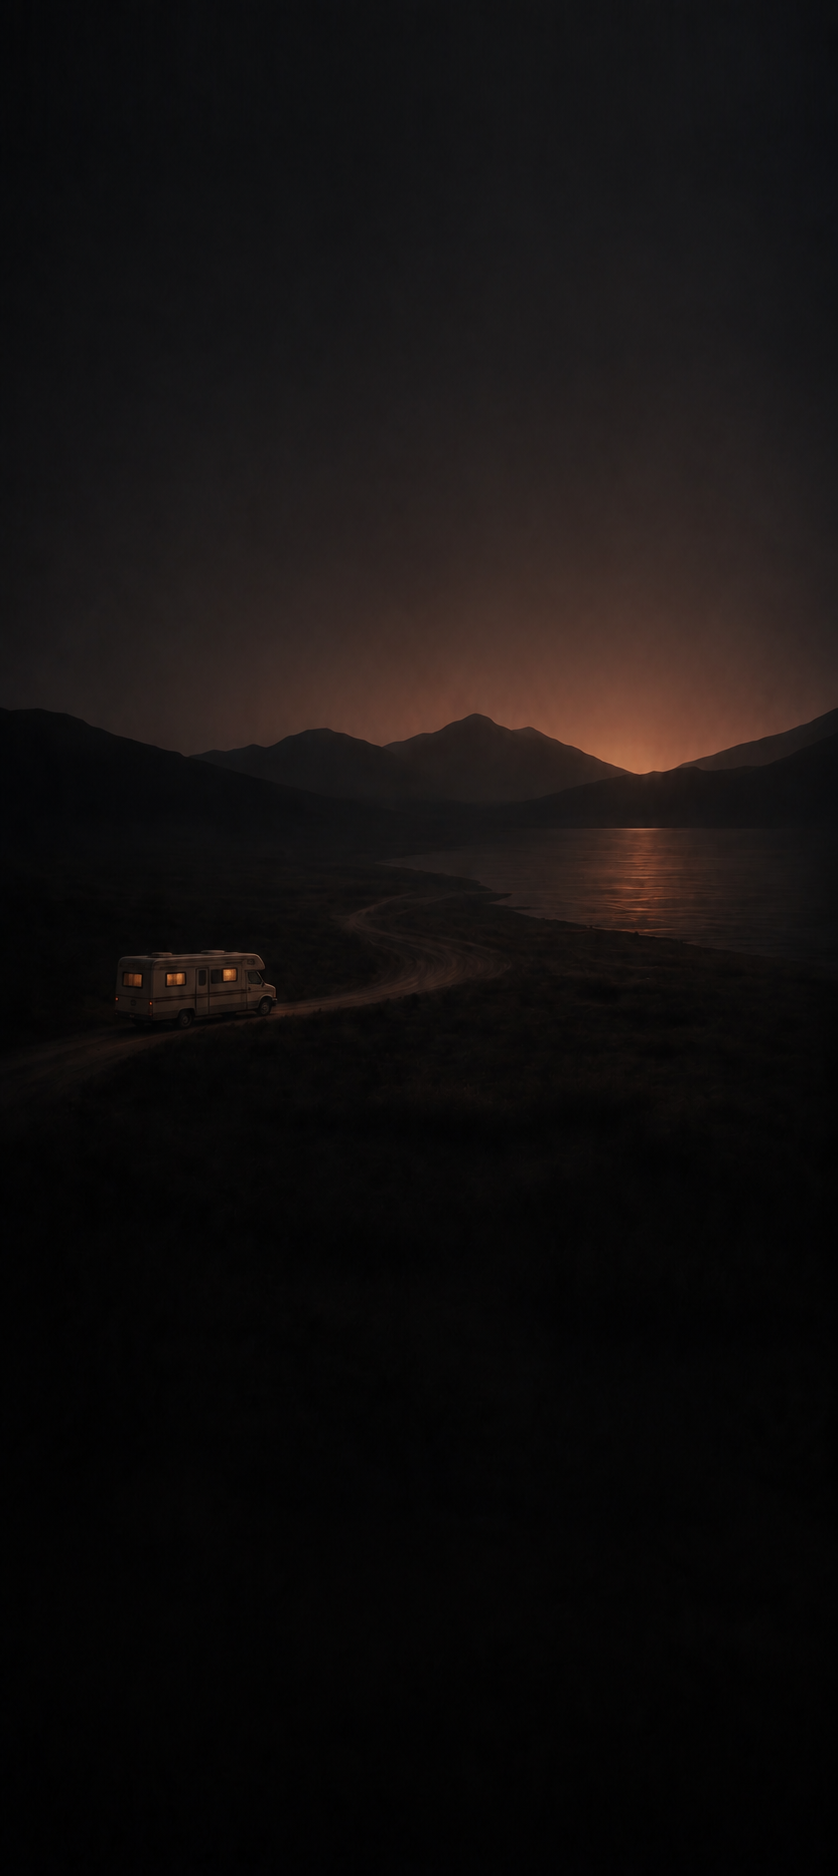
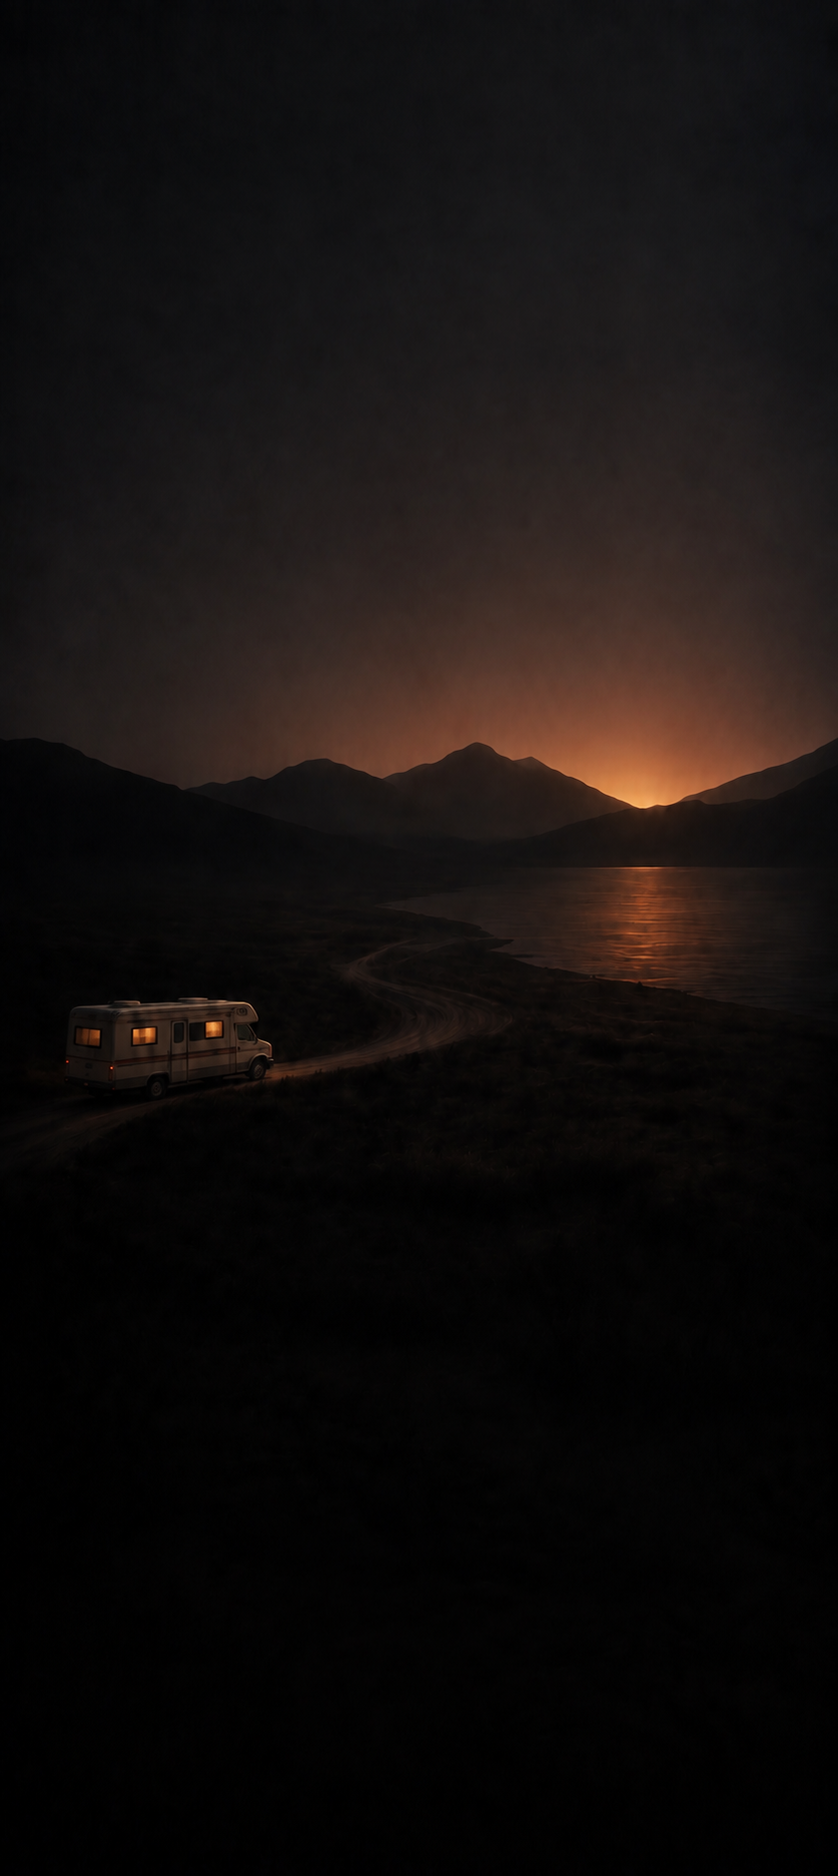
Add files via upload

Changed region(s): [[0.0621, 0.371, 1.0, 0.5256], [0.0931, 0.4947, 0.5585, 0.5874]]

diff --git a/index.html b/index.html
@@ -137,18 +137,19 @@ body.mobile-home-active-v181 .mobile-home-v181{display:block}
   }
 
   /* Journey chapter: the Overview visual system with its own landscape. */
-  body.journey-active-v312 .app::before{content:"";position:fixed;inset:0;z-index:-1;pointer-events:none;background:linear-gradient(rgba(0,0,0,.10),rgba(0,0,0,.10)),#070809 url("./journey-wallpaper.png") center -120px/cover no-repeat}
-  body.journey-active-v312 .app{position:relative;isolation:isolate;background:transparent}
-  body.journey-active-v312 header{display:none}
-  body.journey-active-v312 main{padding-top:0}
-  body.journey-active-v312 #journey{padding-top:calc(11vh + 44px)}
-  body.journey-active-v312 #journey>h1{font-size:25px;line-height:1.1;letter-spacing:-.035em;margin:0;text-align:center;color:rgba(245,244,240,.76)}
-  body.journey-active-v312 #journey>.intro{font-size:14px;line-height:1.55;color:rgba(222,220,214,.62);max-width:18rem;margin:11px auto 116px;padding:0 14px;text-align:center}
-  body.journey-active-v312 #journey .journey-actions{margin-bottom:20px}
-  body.journey-active-v312 #journey .stack{gap:20px}
-  body.journey-active-v312 #journey .card{position:relative;overflow:hidden;background:linear-gradient(155deg,rgba(255,255,255,.075) 0%,rgba(255,255,255,.018) 34%,rgba(255,255,255,0) 58%),linear-gradient(145deg,rgba(27,29,32,.60),rgba(13,15,17,.54));backdrop-filter:blur(14px) saturate(120%);-webkit-backdrop-filter:blur(14px) saturate(120%);box-shadow:inset 0 1px 0 rgba(255,255,255,.32),inset 1px 0 0 rgba(255,255,255,.11),inset -1px 0 0 rgba(255,255,255,.035),inset 0 -1px 0 rgba(0,0,0,.24),0 12px 30px rgba(0,0,0,.16)}
-  body.journey-active-v312 #journey .card::before{content:"";position:absolute;z-index:0;pointer-events:none;left:8%;right:8%;top:0;height:38%;background:linear-gradient(180deg,rgba(255,255,255,.085),rgba(255,255,255,0));border-radius:999px;filter:blur(18px);transform:translateY(-62%)}
-  body.journey-active-v312 #journey .card>*{position:relative;z-index:1}
+  body.journey-active-v313 .app::before{content:"";position:fixed;inset:0;z-index:-1;pointer-events:none;background:linear-gradient(rgba(0,0,0,.10),rgba(0,0,0,.10)),#070809 url("./journey-wallpaper.png") center -170px/cover no-repeat}
+  body.journey-active-v313 .app{position:relative;isolation:isolate;background:transparent}
+  body.journey-active-v313 header{display:none}
+  body.journey-active-v313 main{padding-top:0}
+  body.journey-active-v313 #journey{padding-top:calc(11vh + 44px)}
+  body.journey-active-v313 #journey>h1{font-size:25px;line-height:1.1;letter-spacing:-.035em;margin:0;text-align:center;color:rgba(245,244,240,.76)}
+  body.journey-active-v313 #journey>.intro{font-size:14px;line-height:1.55;color:rgba(222,220,214,.62);max-width:18rem;margin:11px auto 116px;padding:0 14px;text-align:center}
+  body.journey-active-v313 #journey .journey-actions{justify-content:flex-end;margin-bottom:20px}
+  body.journey-active-v313 #journey #toggleAddJourney{border-color:rgba(218,167,128,.42);background:rgba(16,18,20,.30);color:rgba(231,177,137,.88);box-shadow:inset 0 1px 0 rgba(255,255,255,.08)}
+  body.journey-active-v313 #journey .stack{gap:20px}
+  body.journey-active-v313 #journey .card{position:relative;overflow:hidden;background:linear-gradient(155deg,rgba(255,255,255,.075) 0%,rgba(255,255,255,.018) 34%,rgba(255,255,255,0) 58%),linear-gradient(145deg,rgba(27,29,32,.60),rgba(13,15,17,.54));backdrop-filter:blur(14px) saturate(120%);-webkit-backdrop-filter:blur(14px) saturate(120%);box-shadow:inset 0 1px 0 rgba(255,255,255,.32),inset 1px 0 0 rgba(255,255,255,.11),inset -1px 0 0 rgba(255,255,255,.035),inset 0 -1px 0 rgba(0,0,0,.24),0 12px 30px rgba(0,0,0,.16)}
+  body.journey-active-v313 #journey .card::before{content:"";position:absolute;z-index:0;pointer-events:none;left:8%;right:8%;top:0;height:38%;background:linear-gradient(180deg,rgba(255,255,255,.085),rgba(255,255,255,0));border-radius:999px;filter:blur(18px);transform:translateY(-62%)}
+  body.journey-active-v313 #journey .card>*{position:relative;z-index:1}
 
   .mobile-home-inner-v181{
     position:relative;min-height:100dvh;
@@ -330,7 +331,7 @@ const euro0=n=>new Intl.NumberFormat("en-IE",{style:"currency",currency:"EUR",ma
 function showSaved(){const note=byId("saveNote");note.classList.add("show");clearTimeout(showSaved.timer);showSaved.timer=setTimeout(()=>note.classList.remove("show"),1200)}function persist(){localStorage.setItem(KEY,JSON.stringify(state));showSaved()}
 function monthsText(balance,payment){if(balance<=0)return"Complete";if(!payment)return"Repayment not set";const m=Math.ceil(balance/payment);return m===1?"About 1 month":`About ${m} months`}
 function freedomDate(balance,payment){if(balance<=0)return"Freedom reached";if(!payment)return"Set monthly repayment";const months=Math.ceil(balance/payment);const date=new Date();date.setDate(1);date.setMonth(date.getMonth()+months);return date.toLocaleDateString("en-IE",{month:"long",year:"numeric"})}
-function page(id){document.querySelectorAll(".page").forEach(el=>el.classList.toggle("active",el.id===id));document.querySelectorAll(".nav-btn").forEach(el=>el.classList.toggle("active",el.dataset.page===id));document.body.classList.toggle("overview-active-v300",id==="overview");document.body.classList.toggle("journey-active-v312",id==="journey");history.replaceState(null,"","#"+id);window.scrollTo(0,0)}
+function page(id){document.querySelectorAll(".page").forEach(el=>el.classList.toggle("active",el.id===id));document.querySelectorAll(".nav-btn").forEach(el=>el.classList.toggle("active",el.dataset.page===id));document.body.classList.toggle("overview-active-v300",id==="overview");document.body.classList.toggle("journey-active-v313",id==="journey");history.replaceState(null,"","#"+id);window.scrollTo(0,0)}
 document.querySelectorAll(".nav-btn").forEach(btn=>btn.addEventListener("click",()=>page(btn.dataset.page)));document.querySelectorAll("[data-page-link]").forEach(card=>card.addEventListener("click",()=>page(card.dataset.pageLink)));
 function esc(v){return String(v??"").replace(/[&<>'"]/g,c=>({"&":"&amp;","<":"&lt;",">":"&gt;","'":"&#39;",'"':"&quot;"}[c]))}
 

diff --git a/service-worker.js b/service-worker.js
@@ -1,5 +1,5 @@
 /* Freedom at 50 — verified mobile Home release */
-const CACHE_NAME = "freedom-at-50-journey-wallpaper-v3-12";
+const CACHE_NAME = "freedom-at-50-journey-button-v3-13";
 const APP_SHELL = [
   "./",
   "./index.html",
